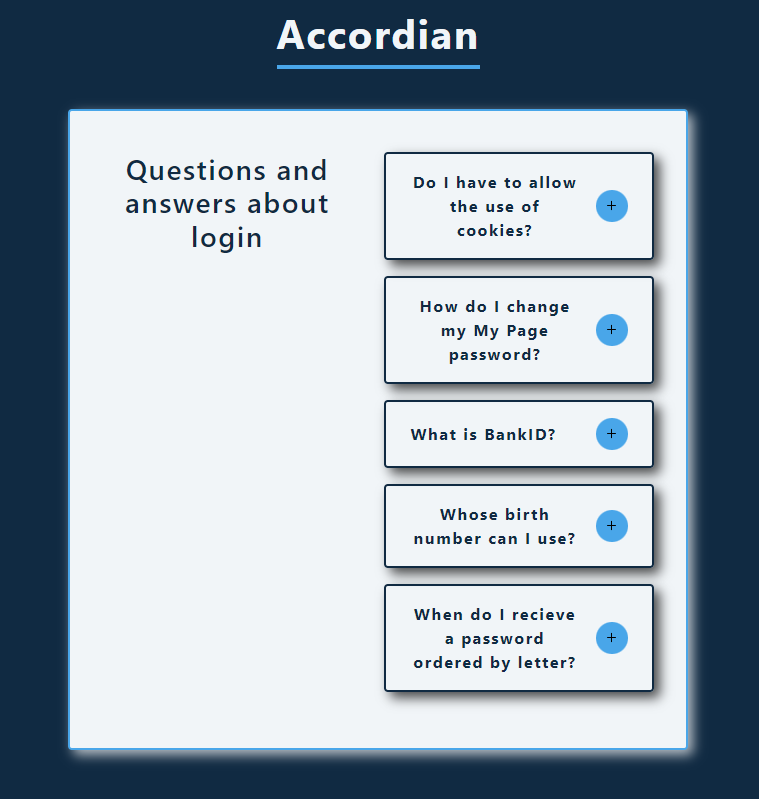
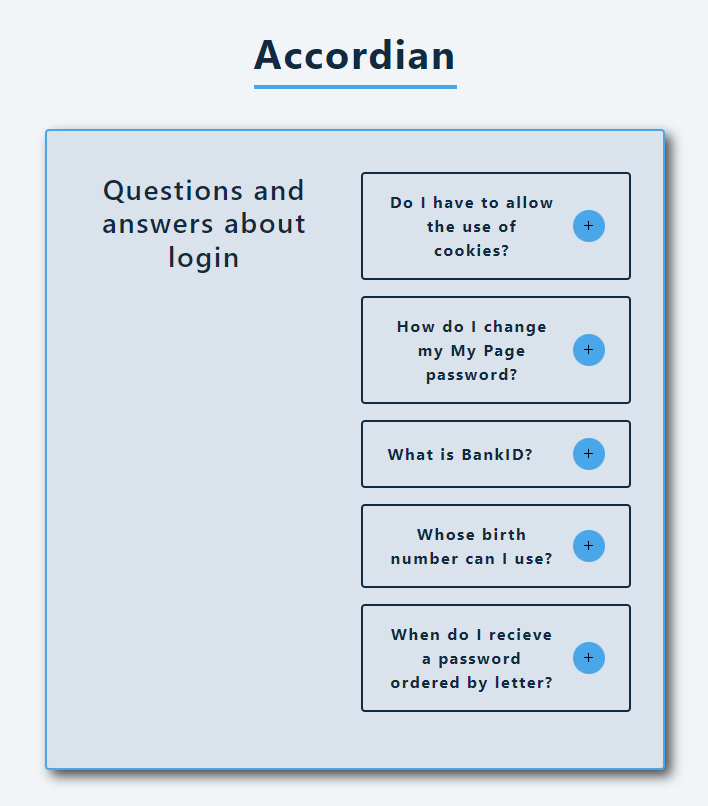
Updating theme, adding new card images

diff --git a/src/components/styledComponents.js b/src/components/styledComponents.js
@@ -45,37 +45,37 @@ export const OuterButton = styled.button.attrs((props) => {
   box-shadow: 0 1px 3px rgba(0, 0, 0, 0.2);
   border-radius: var(--radius);
   background: ${(props) =>
-    props.theme.name === "light" ? "var(--clr-grey-1)" : "var(--clr-grey-10)"};
-  color: ${(props) =>
     props.theme.name === "light" ? "var(--clr-grey-10)" : "var(--clr-grey-1)"};
+  color: ${(props) =>
+    props.theme.name === "light" ? "var(--clr-grey-1)" : "var(--clr-grey-10)"};
 
   &:hover {
     color: ${(props) =>
       props.theme.name === "light"
-        ? "var(--clr-grey-1)"
-        : "var(--clr-grey-10)"};
-    background: ${(props) =>
-      props.theme.name === "light"
         ? "var(--clr-grey-10)"
         : "var(--clr-grey-1)"};
+    background: ${(props) =>
+      props.theme.name === "light"
+        ? "var(--clr-grey-1)"
+        : "var(--clr-grey-10)"};
   }
 `;
 
 export const InnerButton = styled(OuterButton)`
   background: ${(props) =>
-    props.theme.name === "light" ? "var(--clr-grey-10)" : "var(--clr-grey-1)"};
-  color: ${(props) =>
     props.theme.name === "light" ? "var(--clr-grey-1)" : "var(--clr-grey-10)"};
+  color: ${(props) =>
+    props.theme.name === "light" ? "var(--clr-grey-10)" : "var(--clr-grey-1)"};
 
   &:hover {
     color: ${(props) =>
       props.theme.name === "light"
-        ? "var(--clr-grey-10)"
-        : "var(--clr-grey-1)"};
-    background: ${(props) =>
-      props.theme.name === "light"
         ? "var(--clr-grey-1)"
         : "var(--clr-grey-10)"};
+    background: ${(props) =>
+      props.theme.name === "light"
+        ? "var(--clr-grey-10)"
+        : "var(--clr-grey-1)"};
   }
 `;
 

diff --git a/src/components/SideBar.jsx b/src/components/SideBar.jsx
@@ -8,9 +8,14 @@ import ToggleSwitch from "../components/ToggleSwitch";
 
 const StyledSideBar = styled.aside`
   font-size: 2rem;
-  color: var(--clr-primary-5);
+  color: ${(props) =>
+    props.theme.name === "light"
+      ? "var(--clr-grey-10)"
+      : "var(--clr-primary-5)"};
   background: ${(props) =>
-    props.theme.name === "light" ? "var(--clr-grey-1)" : "var(--clr-grey-10)"};
+    props.theme.name === "light"
+      ? "var(--clr-primary-5)"
+      : "var(--clr-grey-1)"};
 
   .sidebar-header {
     display: flex;
@@ -38,7 +43,7 @@ const StyledSideBar = styled.aside`
   .links {
     overflow-y: auto;
     background: ${(props) =>
-      props.theme.name === "light" ? "var(--clr-grey-8)" : "var(--clr-grey-3)"};
+      props.theme.name === "light" ? "var(--clr-grey-9)" : "var(--clr-grey-3)"};
 
     .active {
       color: var(--clr-primary-5);
@@ -84,13 +89,16 @@ const StyledSideBar = styled.aside`
         font-size: 1.75rem;
         margin: 0 0.5rem;
         transition: var(--transition);
-        color: var(--clr-primary-5);
+        color: ${(props) =>
+          props.theme.name === "light"
+            ? "var(--clr-grey-10)"
+            : "var(--clr-primary-5)"};
 
         &:hover {
           color: ${(props) =>
             props.theme.name === "light"
-              ? "var(--clr-grey-10)"
-              : "var(--clr-grey-1)"};
+              ? "var(--clr-grey-1)"
+              : "var(--clr-grey-10)"};
         }
       }
     }

diff --git a/src/components/Tours/Tour.jsx b/src/components/Tours/Tour.jsx
@@ -7,7 +7,7 @@ const StyledTour = styled.article`
   border: 0.15rem solid var(--clr-primary-5);
   transition: var(--transition);
   background: ${(props) =>
-    props.theme.name === "light" ? "var(--clr-grey-1)" : "var(--clr-grey-10)"};
+    props.theme.name === "light" ? "var(--clr-grey-9)" : "var(--clr-grey-1)"};
   box-shadow: ${(props) =>
     props.theme.name === "light" ? "var(--light-shadow)" : "var(--lw-shadow)"};
 
@@ -60,16 +60,16 @@ const StyledTour = styled.article`
         margin-bottom: 0;
         color: ${(props) =>
           props.theme.name === "light"
-            ? "var(--clr-grey-10)"
-            : "var(--clr-grey-1)"};
+            ? "var(--clr-grey-1)"
+            : "var(--clr-grey-10)"};
       }
 
       .tour-price {
         color: var(--clr-primary-5);
         background: ${(props) =>
           props.theme.name === "light"
-            ? "var(--clr-grey-10)"
-            : "var(--clr-grey-1)"};
+            ? "var(--clr-grey-1)"
+            : "var(--clr-grey-9)"};
         padding: 0.25rem 0.5rem;
         border-radius: var(--radius);
       }

diff --git a/src/components/NavBar.jsx b/src/components/NavBar.jsx
@@ -8,7 +8,9 @@ const StyledNavBar = styled.nav`
   width: 100%;
   z-index: 2;
   background: ${(props) =>
-    props.theme.name === "light" ? "var(--clr-grey-1)" : "var(--clr-grey-10)"};
+    props.theme.name === "light"
+      ? "var(--clr-primary-5)"
+      : "var(--clr-grey-1)"};
 
   .nav-center {
     max-width: var(--max-width);
@@ -21,13 +23,19 @@ const StyledNavBar = styled.nav`
       align-items: center;
       font-size: 2rem;
       margin: 0 0.5rem;
-      color: var(--clr-primary-5);
+      color: ${(props) =>
+        props.theme.name === "light"
+          ? "var(--clr-grey-10)"
+          : "var(--clr-primary-5)"};
 
       .nav-btn {
         line-height: 0;
         background: transparent;
         border-color: transparent;
-        color: var(--clr-primary-5);
+        color: ${(props) =>
+          props.theme.name === "light"
+            ? "var(--clr-grey-10)"
+            : "var(--clr-primary-5)"};
         cursor: pointer;
         justify-self: end;
         font-size: 2rem;

diff --git a/src/components/Accordian/Question.jsx b/src/components/Accordian/Question.jsx
@@ -7,12 +7,10 @@ const StyledQuestion = styled.article`
   border: 2px solid
     ${(props) =>
       props.theme.name === "light"
-        ? "var(--clr-grey-10)"
-        : "var(--clr-grey-1)"};
+        ? "var(--clr-grey-1)"
+        : "var(--clr-grey-10)"};
   margin-bottom: 1rem;
   border-radius: var(--radius);
-  box-shadow: ${(props) =>
-    props.theme.name === "light" ? "var(--lw-shadow)" : "var(--light-shadow)"};
 
   header {
     display: flex;
@@ -23,12 +21,6 @@ const StyledQuestion = styled.article`
       text-transform: none;
       line-height: 1.5;
       margin-bottom: 0;
-    }
-
-    p {
-      color: var(--clr-grey-3);
-      margin-bottom: 0;
-      margin-top: 0.5rem;
     }
 
     .btn {
@@ -46,6 +38,13 @@ const StyledQuestion = styled.article`
       align-self: center;
       min-width: 2rem;
     }
+  }
+
+  p {
+    color: ${(props) =>
+      props.theme.name === "light" ? "var(--clr-grey-2)" : "var(--clr-grey-9)"};
+    margin-bottom: 0;
+    margin-top: 0.5rem;
   }
 `;
 

diff --git a/src/components/Reviews/Review.jsx b/src/components/Reviews/Review.jsx
@@ -11,9 +11,9 @@ const StyledReview = styled.article`
   border: 0.15rem solid var(--clr-primary-5);
   transition: var(--transition);
   background: ${(props) =>
-    props.theme.name === "light" ? "var(--clr-grey-1)" : "var(--clr-grey-10)"};
+    props.theme.name === "light" ? "var(--clr-grey-9)" : "var(--clr-grey-1)"};
   color: ${(props) =>
-    props.theme.name === "light" ? "var(--clr-grey-10)" : "var(--clr-grey-1)"};
+    props.theme.name === "light" ? "var(--clr-grey-1)" : "var(--clr-grey-10)"};
   box-shadow: ${(props) =>
     props.theme.name === "light" ? "var(--light-shadow)" : "var(--lw-shadow)"};
 
@@ -59,8 +59,8 @@ const StyledReview = styled.article`
     margin-bottom: 0.75rem;
     color: ${(props) =>
       props.theme.name === "light"
-        ? "var(--clr-grey-10)"
-        : "var(--clr-grey-1)"};
+        ? "var(--clr-grey-1)"
+        : "var(--clr-grey-10)"};
   }
 
   .prev-btn,

diff --git a/src/components/Home/Project.jsx b/src/components/Home/Project.jsx
@@ -13,9 +13,9 @@ const StyledProject = styled.article`
   box-shadow: ${(props) =>
     props.theme.name === "light" ? "var(--light-shadow)" : "var(--lw-shadow)"};
   background: ${(props) =>
-    props.theme.name === "light" ? "var(--clr-grey-1)" : "var(--clr-grey-10)"};
+    props.theme.name === "light" ? "var(--clr-grey-9)" : "var(--clr-grey-1)"};
   color: ${(props) =>
-    props.theme.name === "light" ? "var(--clr-grey-10)" : "var(--clr-grey-1)"};
+    props.theme.name === "light" ? "var(--clr-grey-1)" : "var(--clr-grey-10)"};
 
   &:hover {
     box-shadow: ${(props) =>

diff --git a/src/pages/Accordian.jsx b/src/pages/Accordian.jsx
@@ -17,13 +17,11 @@ const StyledAccordian = styled.main`
     display: grid;
     gap: 1rem 2rem;
     background: ${(props) =>
+      props.theme.name === "light" ? "var(--clr-grey-9)" : "var(--clr-grey-1)"};
+    color: ${(props) =>
       props.theme.name === "light"
         ? "var(--clr-grey-1)"
         : "var(--clr-grey-10)"};
-    color: ${(props) =>
-      props.theme.name === "light"
-        ? "var(--clr-grey-10)"
-        : "var(--clr-grey-1)"};
     box-shadow: ${(props) =>
       props.theme.name === "light"
         ? "var(--light-shadow)"

diff --git a/src/pages/BirthdayReminder.jsx b/src/pages/BirthdayReminder.jsx
@@ -22,12 +22,12 @@ const StyledBirthdayReminder = styled.main`
         : "var(--lw-shadow)"};
     background: ${(props) =>
       props.theme.name === "light"
-        ? "var(--clr-grey-1)"
-        : "var(--clr-grey-10)"};
-    color: ${(props) =>
-      props.theme.name === "light"
         ? "var(--clr-grey-10)"
         : "var(--clr-grey-1)"};
+    color: ${(props) =>
+      props.theme.name === "light"
+        ? "var(--clr-grey-1)"
+        : "var(--clr-grey-10)"};
 
     h3 {
       font-weight: normal;

diff --git a/src/components/ToggleSwitch.jsx b/src/components/ToggleSwitch.jsx
@@ -12,7 +12,11 @@ const StyledSwitch = styled.label`
   border-radius: 30px;
   margin: 0.25rem;
   transition: var(--transition);
-  border: 2px solid var(--clr-primary-5);
+  border: 2px solid
+    ${(props) =>
+      props.theme.name === "light"
+        ? "var(--clr-grey-1)"
+        : "var(--clr-primary-5)"};
   background: ${(props) =>
     props.theme.name === "light" ? "var(--clr-grey-10)" : "var(--clr-grey-1)"};
   color: ${(props) =>

diff --git a/src/App.js b/src/App.js
@@ -23,7 +23,7 @@ const themes = {
   dark: {
     name: "dark",
     color: "hsl(210, 36%, 96%)",
-    background: "hsl(209, 61%, 16%)",
+    background: "#131722",
   },
 };
 
